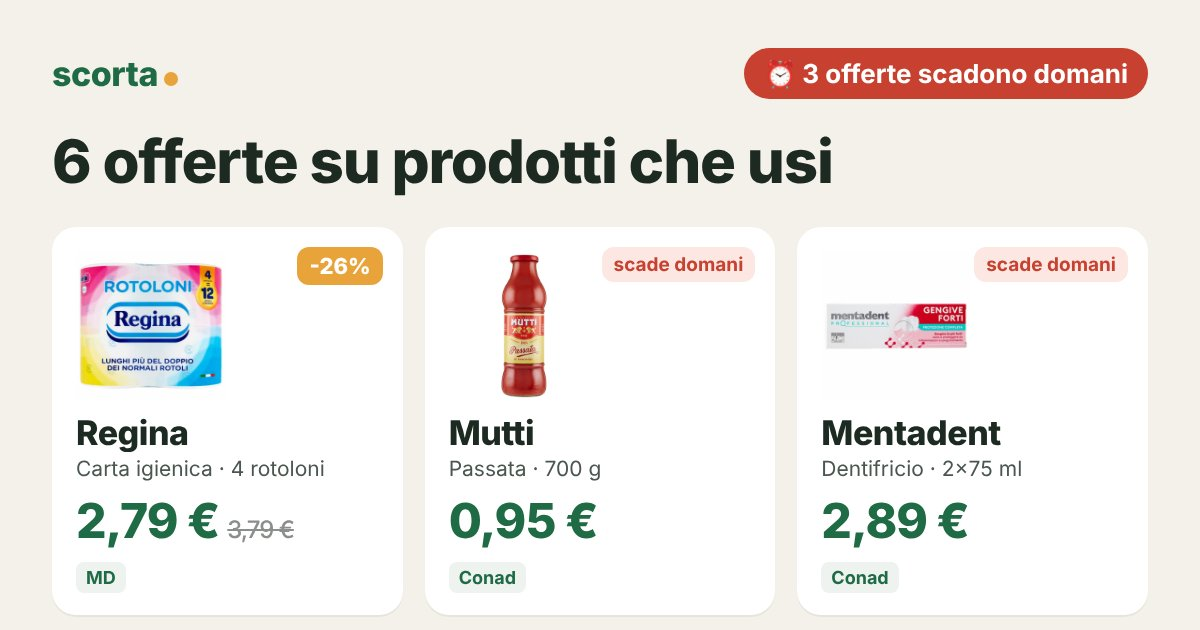
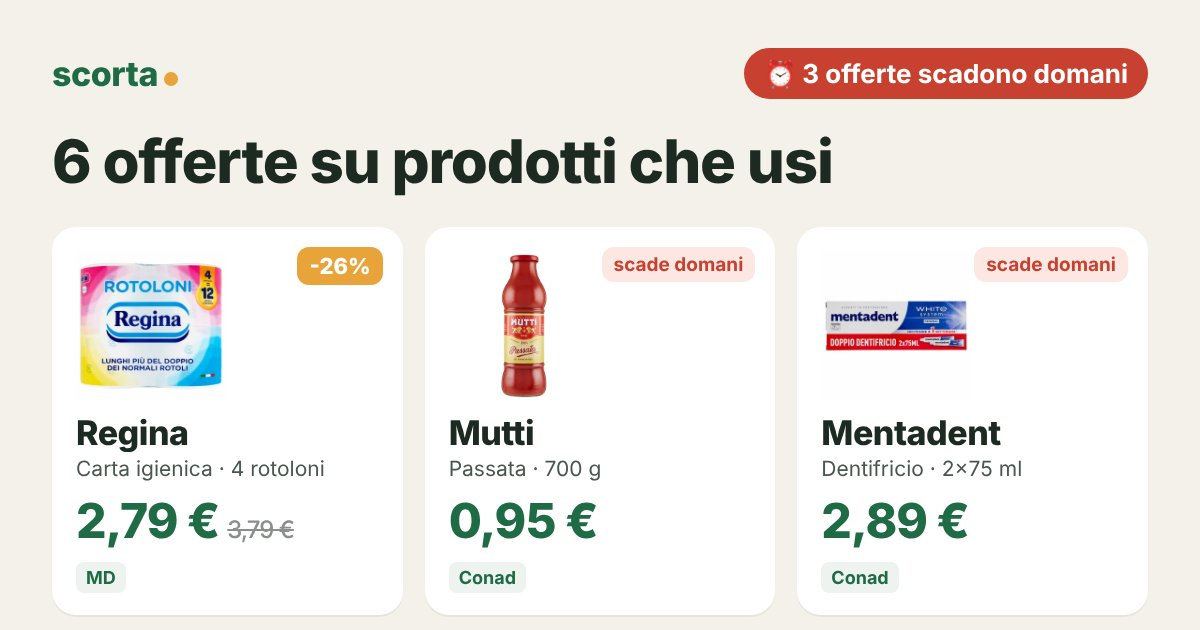
Pagine offerte 2026-10-31
Claude-Session: https://claude.ai/code/session_012BnByD7nnfoHswjF7TKs2L

Changed region(s): [[0.6783, 0.4524, 0.8325, 0.573]]

diff --git a/o/a0ea8a2d/index.html b/o/a0ea8a2d/index.html
@@ -6,4 +6,4 @@
 <style>body{margin:0;font-family:-apple-system,system-ui,sans-serif;background:#F4F1EA;color:#1d2a22}main{max-width:560px;margin:auto;padding:16px}img{width:100%;border-radius:14px}
 ul{list-style:none;padding:0}li{display:flex;gap:10px;align-items:center;background:#fff;border-radius:12px;padding:10px 12px;margin:8px 0}.ic{font-size:26px}.th{width:44px;height:44px;object-fit:contain;background:#fff}li div:nth-child(2){flex:1}small{color:#6b746e}.pr{text-align:right;white-space:nowrap}s{color:#8a8f8b;font-size:13px}
 .btn{display:block;text-align:center;background:#1f6b45;color:#fff;font-weight:700;font-size:18px;padding:16px;border-radius:14px;text-decoration:none;margin:18px 0}.map{display:block;color:#1f6b45;margin:6px 0;text-decoration:none}</style></head>
-<body><main><img src="card.jpg" alt=""><a class="btn" href="https://tally.so/r/OQQV7k?f=F009&amp;a=A054,A055,A056,A057,A058,A059">✅ Segna cosa hai comprato</a><ul><li><img class=th src=../../img/L189.jpg><div><b>Regina 4 rotoloni carta igienica</b><br><small>MD · scade domani</small></div><div class="pr"><s>3,79 €</s> <b>2,79 €</b></div></li><li><img class=th src=../../img/L027.jpg><div><b>Mutti passata di pomodoro 700 g</b><br><small>Conad · scade domani</small></div><div class="pr"><b>0,95 €</b></div></li><li><img class=th src=../../img/L223.jpg><div><b>Mentadent dentifricio White System/P 2x75 ml</b><br><small>Conad · scade domani</small></div><div class="pr"><b>2,89 €</b></div></li><li><img class=th src=../../img/L003.jpg><div><b>De Cecco pasta di semola formati normali 500 g</b><br><small>Decò Supermercato · fino al 2/11</small></div><div class="pr"><b>0,79 €</b></div></li><li><img class=th src=../../img/L141.jpg><div><b>Omino Bianco detersivo liquido lavatrice 44 lavaggi</b><br><small>Decò Supermercato · fino al 2/11</small></div><div class="pr"><b>4,39 €</b></div></li><li><img class=th src=../../img/L365.jpg><div><b>Finish gel Ultimate 3x540 ml</b><br><small>Decò Supermercato · fino al 2/11</small></div><div class="pr"><b>10,49 €</b></div></li></ul><a class="map" href="https://www.google.com/maps/search/?api=1&query=MD%20C.SO%20ITALIA%2055%20Marano%20di%20Napoli">📍 MD · C.SO ITALIA 55, Marano di Napoli</a><a class="map" href="https://www.google.com/maps/search/?api=1&query=Conad%20Via%20Della%20Repubblica%20122%20Calvizzano">📍 Conad · Via Della Repubblica 122, Calvizzano</a><a class="map" href="https://www.google.com/maps/search/?api=1&query=Dec%C3%B2%20Supermercato%20Via%20Ernesto%20Che%20Guevara%2C%2036%20Marano%20di%20Napoli">📍 Decò Supermercato · Via Ernesto Che Guevara, 36, Marano di Napoli</a><p><small>Prezzi e scadenze dai volantini delle insegne. Rispondi STOP su WhatsApp per non ricevere più avvisi.</small></p></main></body></html>
+<body><main><img src="card.jpg" alt=""><a class="btn" href="https://tally.so/r/OQQV7k?f=F009&amp;a=A054,A055,A056,A057,A058,A059">✅ Segna cosa hai comprato</a><ul><li><img class=th src=../../img/L189.jpg><div><b>Regina 4 rotoloni carta igienica</b><br><small>MD · scade domani</small></div><div class="pr"><s>3,79 €</s> <b>2,79 €</b></div></li><li><img class=th src=../../img/L027.jpg><div><b>Mutti passata di pomodoro 700 g</b><br><small>Conad · scade domani</small></div><div class="pr"><b>0,95 €</b></div></li><li><img class=th src=../../img/mentadent_ws_2x75.jpg><div><b>Mentadent dentifricio White System/P 2x75 ml</b><br><small>Conad · scade domani</small></div><div class="pr"><b>2,89 €</b></div></li><li><img class=th src=../../img/L003.jpg><div><b>De Cecco pasta di semola formati normali 500 g</b><br><small>Decò Supermercato · fino al 2/11</small></div><div class="pr"><b>0,79 €</b></div></li><li><span class=ic>🫧</span><div><b>Omino Bianco detersivo liquido lavatrice 44 lavaggi</b><br><small>Decò Supermercato · fino al 2/11</small></div><div class="pr"><b>4,39 €</b></div></li><li><span class=ic>🍽</span><div><b>Finish gel Ultimate 3x540 ml</b><br><small>Decò Supermercato · fino al 2/11</small></div><div class="pr"><b>10,49 €</b></div></li></ul><a class="map" href="https://www.google.com/maps/search/?api=1&query=MD%20C.SO%20ITALIA%2055%20Marano%20di%20Napoli">📍 MD · C.SO ITALIA 55, Marano di Napoli</a><a class="map" href="https://www.google.com/maps/search/?api=1&query=Conad%20Via%20Della%20Repubblica%20122%20Calvizzano">📍 Conad · Via Della Repubblica 122, Calvizzano</a><a class="map" href="https://www.google.com/maps/search/?api=1&query=Dec%C3%B2%20Supermercato%20Via%20Ernesto%20Che%20Guevara%2C%2036%20Marano%20di%20Napoli">📍 Decò Supermercato · Via Ernesto Che Guevara, 36, Marano di Napoli</a><p><small>Prezzi e scadenze dai volantini delle insegne. Rispondi STOP su WhatsApp per non ricevere più avvisi.</small></p></main></body></html>

diff --git a/o/31ed0d9c/index.html b/o/31ed0d9c/index.html
@@ -6,4 +6,4 @@
 <style>body{margin:0;font-family:-apple-system,system-ui,sans-serif;background:#F4F1EA;color:#1d2a22}main{max-width:560px;margin:auto;padding:16px}img{width:100%;border-radius:14px}
 ul{list-style:none;padding:0}li{display:flex;gap:10px;align-items:center;background:#fff;border-radius:12px;padding:10px 12px;margin:8px 0}.ic{font-size:26px}.th{width:44px;height:44px;object-fit:contain;background:#fff}li div:nth-child(2){flex:1}small{color:#6b746e}.pr{text-align:right;white-space:nowrap}s{color:#8a8f8b;font-size:13px}
 .btn{display:block;text-align:center;background:#1f6b45;color:#fff;font-weight:700;font-size:18px;padding:16px;border-radius:14px;text-decoration:none;margin:18px 0}.map{display:block;color:#1f6b45;margin:6px 0;text-decoration:none}</style></head>
-<body><main><img src="card.jpg" alt=""><a class="btn" href="https://tally.so/r/OQQV7k?f=F008&amp;a=A050,A051,A052,A053">✅ Segna cosa hai comprato</a><ul><li><img class=th src=../../img/L189.jpg><div><b>Regina 4 rotoloni carta igienica</b><br><small>MD · scade domani</small></div><div class="pr"><s>3,79 €</s> <b>2,79 €</b></div></li><li><span class=ic>💧</span><div><b>Ferrarelle acqua effervescente naturale 6x1,5 l</b><br><small>Conad · scade domani</small></div><div class="pr"><b>1,80 €</b></div></li><li><span class=ic>🍪</span><div><b>Mulino Bianco biscotti classici Rigoli 400 g</b><br><small>Decò Supermercato · fino al 2/11</small></div><div class="pr"><b>1,59 €</b></div></li><li><img class=th src=../../img/L098.jpg><div><b>Mulino Bianco fette biscottate dorate 630 g</b><br><small>Decò Supermercato · fino al 2/11</small></div><div class="pr"><b>1,79 €</b></div></li></ul><a class="map" href="https://www.google.com/maps/search/?api=1&query=MD%20C.SO%20ITALIA%2055%20Marano%20di%20Napoli">📍 MD · C.SO ITALIA 55, Marano di Napoli</a><a class="map" href="https://www.google.com/maps/search/?api=1&query=Conad%20Via%20Della%20Repubblica%20122%20Calvizzano">📍 Conad · Via Della Repubblica 122, Calvizzano</a><a class="map" href="https://www.google.com/maps/search/?api=1&query=Dec%C3%B2%20Supermercato%20Via%20Ernesto%20Che%20Guevara%2C%2036%20Marano%20di%20Napoli">📍 Decò Supermercato · Via Ernesto Che Guevara, 36, Marano di Napoli</a><p><small>Prezzi e scadenze dai volantini delle insegne. Rispondi STOP su WhatsApp per non ricevere più avvisi.</small></p></main></body></html>
+<body><main><img src="card.jpg" alt=""><a class="btn" href="https://tally.so/r/OQQV7k?f=F008&amp;a=A050,A051,A052,A053">✅ Segna cosa hai comprato</a><ul><li><img class=th src=../../img/L189.jpg><div><b>Regina 4 rotoloni carta igienica</b><br><small>MD · scade domani</small></div><div class="pr"><s>3,79 €</s> <b>2,79 €</b></div></li><li><span class=ic>💧</span><div><b>Ferrarelle acqua effervescente naturale 6x1,5 l</b><br><small>Conad · scade domani</small></div><div class="pr"><b>1,80 €</b></div></li><li><span class=ic>🍪</span><div><b>Mulino Bianco biscotti classici Rigoli 400 g</b><br><small>Decò Supermercato · fino al 2/11</small></div><div class="pr"><b>1,59 €</b></div></li><li><span class=ic>🍞</span><div><b>Mulino Bianco fette biscottate dorate 630 g</b><br><small>Decò Supermercato · fino al 2/11</small></div><div class="pr"><b>1,79 €</b></div></li></ul><a class="map" href="https://www.google.com/maps/search/?api=1&query=MD%20C.SO%20ITALIA%2055%20Marano%20di%20Napoli">📍 MD · C.SO ITALIA 55, Marano di Napoli</a><a class="map" href="https://www.google.com/maps/search/?api=1&query=Conad%20Via%20Della%20Repubblica%20122%20Calvizzano">📍 Conad · Via Della Repubblica 122, Calvizzano</a><a class="map" href="https://www.google.com/maps/search/?api=1&query=Dec%C3%B2%20Supermercato%20Via%20Ernesto%20Che%20Guevara%2C%2036%20Marano%20di%20Napoli">📍 Decò Supermercato · Via Ernesto Che Guevara, 36, Marano di Napoli</a><p><small>Prezzi e scadenze dai volantini delle insegne. Rispondi STOP su WhatsApp per non ricevere più avvisi.</small></p></main></body></html>

diff --git a/o/7c19c5b6/index.html b/o/7c19c5b6/index.html
@@ -6,4 +6,4 @@
 <style>body{margin:0;font-family:-apple-system,system-ui,sans-serif;background:#F4F1EA;color:#1d2a22}main{max-width:560px;margin:auto;padding:16px}img{width:100%;border-radius:14px}
 ul{list-style:none;padding:0}li{display:flex;gap:10px;align-items:center;background:#fff;border-radius:12px;padding:10px 12px;margin:8px 0}.ic{font-size:26px}.th{width:44px;height:44px;object-fit:contain;background:#fff}li div:nth-child(2){flex:1}small{color:#6b746e}.pr{text-align:right;white-space:nowrap}s{color:#8a8f8b;font-size:13px}
 .btn{display:block;text-align:center;background:#1f6b45;color:#fff;font-weight:700;font-size:18px;padding:16px;border-radius:14px;text-decoration:none;margin:18px 0}.map{display:block;color:#1f6b45;margin:6px 0;text-decoration:none}</style></head>
-<body><main><img src="card.jpg" alt=""><a class="btn" href="https://tally.so/r/OQQV7k?f=F003&amp;a=A039,A040,A041,A042">✅ Segna cosa hai comprato</a><ul><li><img class=th src=../../img/L565.jpg><div><b>Ace pavimenti igienizzante lavanda/talco 1 l</b><br><small>Conad · scade domani</small></div><div class="pr"><b>1,49 €</b></div></li><li><img class=th src=../../img/L027.jpg><div><b>Mutti passata di pomodoro 700 g</b><br><small>Conad Superstore · scade domani</small></div><div class="pr"><b>0,95 €</b></div></li><li><img class=th src=../../img/L039.jpg><div><b>Rio mare Tonno all&#x27;Olio di Oliva 4 + 2 Gratis x 80 g</b><br><small>Dodecà · prezzo fisso</small></div><div class="pr"><b>5,99 €</b></div></li><li><img class=th src=../../img/L163.jpg><div><b>Fairy Pastiglie Lavastoviglie Platinum All in One, Detersivo Piatti Limone, 45 Capsule 671 g</b><br><small>Dodecà · prezzo fisso</small></div><div class="pr"><b>11,69 €</b></div></li></ul><a class="map" href="https://www.google.com/maps/search/?api=1&query=Conad%20Corso%20Cirillo%2027%20Grumo%20Nevano">📍 Conad · Corso Cirillo 27, Grumo Nevano</a><a class="map" href="https://www.google.com/maps/search/?api=1&query=Conad%20Superstore%20Via%20Barraccone%20Snc%20Sant%27Arpino">📍 Conad Superstore · Via Barraccone Snc, Sant&#x27;Arpino</a><a class="map" href="https://www.google.com/maps/search/?api=1&query=Dodec%C3%A0%20Via%20Sette%20Re%2C%2077%20Arzano">📍 Dodecà · Via Sette Re, 77, Arzano</a><p><small>Prezzi e scadenze dai volantini delle insegne. Rispondi STOP su WhatsApp per non ricevere più avvisi.</small></p></main></body></html>
+<body><main><img src="card.jpg" alt=""><a class="btn" href="https://tally.so/r/OQQV7k?f=F003&amp;a=A039,A040,A041,A042">✅ Segna cosa hai comprato</a><ul><li><span class=ic>🧽</span><div><b>Ace pavimenti igienizzante lavanda/talco 1 l</b><br><small>Conad · scade domani</small></div><div class="pr"><b>1,49 €</b></div></li><li><img class=th src=../../img/L027.jpg><div><b>Mutti passata di pomodoro 700 g</b><br><small>Conad Superstore · scade domani</small></div><div class="pr"><b>0,95 €</b></div></li><li><span class=ic>🐟</span><div><b>Rio mare Tonno all&#x27;Olio di Oliva 4 + 2 Gratis x 80 g</b><br><small>Dodecà · prezzo fisso</small></div><div class="pr"><b>5,99 €</b></div></li><li><span class=ic>🍽</span><div><b>Fairy Pastiglie Lavastoviglie Platinum All in One, Detersivo Piatti Limone, 45 Capsule 671 g</b><br><small>Dodecà · prezzo fisso</small></div><div class="pr"><b>11,69 €</b></div></li></ul><a class="map" href="https://www.google.com/maps/search/?api=1&query=Conad%20Corso%20Cirillo%2027%20Grumo%20Nevano">📍 Conad · Corso Cirillo 27, Grumo Nevano</a><a class="map" href="https://www.google.com/maps/search/?api=1&query=Conad%20Superstore%20Via%20Barraccone%20Snc%20Sant%27Arpino">📍 Conad Superstore · Via Barraccone Snc, Sant&#x27;Arpino</a><a class="map" href="https://www.google.com/maps/search/?api=1&query=Dodec%C3%A0%20Via%20Sette%20Re%2C%2077%20Arzano">📍 Dodecà · Via Sette Re, 77, Arzano</a><p><small>Prezzi e scadenze dai volantini delle insegne. Rispondi STOP su WhatsApp per non ricevere più avvisi.</small></p></main></body></html>

diff --git a/o/8577fc16/index.html b/o/8577fc16/index.html
@@ -6,4 +6,4 @@
 <style>body{margin:0;font-family:-apple-system,system-ui,sans-serif;background:#F4F1EA;color:#1d2a22}main{max-width:560px;margin:auto;padding:16px}img{width:100%;border-radius:14px}
 ul{list-style:none;padding:0}li{display:flex;gap:10px;align-items:center;background:#fff;border-radius:12px;padding:10px 12px;margin:8px 0}.ic{font-size:26px}.th{width:44px;height:44px;object-fit:contain;background:#fff}li div:nth-child(2){flex:1}small{color:#6b746e}.pr{text-align:right;white-space:nowrap}s{color:#8a8f8b;font-size:13px}
 .btn{display:block;text-align:center;background:#1f6b45;color:#fff;font-weight:700;font-size:18px;padding:16px;border-radius:14px;text-decoration:none;margin:18px 0}.map{display:block;color:#1f6b45;margin:6px 0;text-decoration:none}</style></head>
-<body><main><img src="card.jpg" alt=""><a class="btn" href="https://tally.so/r/OQQV7k?f=F005&amp;a=A046,A047,A048,A049">✅ Segna cosa hai comprato</a><ul><li><img class=th src=../../img/L189.jpg><div><b>Regina 4 rotoloni carta igienica</b><br><small>MD · scade domani</small></div><div class="pr"><s>3,79 €</s> <b>2,79 €</b></div></li><li><img class=th src=../../img/L042.jpg><div><b>Callipo tranci di tonno all&#x27;olio extravergine biologico 2x80 g</b><br><small>Conad Superstore · scade domani</small></div><div class="pr"><s>4,29 €</s> <b>2,99 €</b></div></li><li><img class=th src=../../img/L138.jpg><div><b>Dash detersivo liquido lavatrice classico/colore 40 dosi 1,8 l</b><br><small>Conad Superstore · scade domani</small></div><div class="pr"><b>6,90 €</b></div></li><li><img class=th src=../../img/L223.jpg><div><b>Mentadent dentifricio prevenzione completa/white system 2x75 ml</b><br><small>Conad Superstore · scade domani</small></div><div class="pr"><b>2,89 €</b></div></li></ul><a class="map" href="https://www.google.com/maps/search/?api=1&query=MD%20Via%20Giulio%20Cesare%2C%2050%2C%20Fuorigrotta%20Napoli">📍 MD · Via Giulio Cesare, 50, Fuorigrotta, Napoli</a><a class="map" href="https://www.google.com/maps/search/?api=1&query=Conad%20Superstore%20Via%20Cintia-%20Angolo%20Via%20Marcaurelio%20Snc%20Napoli">📍 Conad Superstore · Via Cintia- Angolo Via Marcaurelio Snc, Napoli</a><p><small>Prezzi e scadenze dai volantini delle insegne. Rispondi STOP su WhatsApp per non ricevere più avvisi.</small></p></main></body></html>
+<body><main><img src="card.jpg" alt=""><a class="btn" href="https://tally.so/r/OQQV7k?f=F005&amp;a=A046,A047,A048,A049">✅ Segna cosa hai comprato</a><ul><li><img class=th src=../../img/L189.jpg><div><b>Regina 4 rotoloni carta igienica</b><br><small>MD · scade domani</small></div><div class="pr"><s>3,79 €</s> <b>2,79 €</b></div></li><li><span class=ic>🐟</span><div><b>Callipo tranci di tonno all&#x27;olio extravergine biologico 2x80 g</b><br><small>Conad Superstore · scade domani</small></div><div class="pr"><s>4,29 €</s> <b>2,99 €</b></div></li><li><span class=ic>🫧</span><div><b>Dash detersivo liquido lavatrice classico/colore 40 dosi 1,8 l</b><br><small>Conad Superstore · scade domani</small></div><div class="pr"><b>6,90 €</b></div></li><li><span class=ic>🪥</span><div><b>Mentadent dentifricio prevenzione completa/white system 2x75 ml</b><br><small>Conad Superstore · scade domani</small></div><div class="pr"><b>2,89 €</b></div></li></ul><a class="map" href="https://www.google.com/maps/search/?api=1&query=MD%20Via%20Giulio%20Cesare%2C%2050%2C%20Fuorigrotta%20Napoli">📍 MD · Via Giulio Cesare, 50, Fuorigrotta, Napoli</a><a class="map" href="https://www.google.com/maps/search/?api=1&query=Conad%20Superstore%20Via%20Cintia-%20Angolo%20Via%20Marcaurelio%20Snc%20Napoli">📍 Conad Superstore · Via Cintia- Angolo Via Marcaurelio Snc, Napoli</a><p><small>Prezzi e scadenze dai volantini delle insegne. Rispondi STOP su WhatsApp per non ricevere più avvisi.</small></p></main></body></html>

diff --git a/o/79c985cf/index.html b/o/79c985cf/index.html
@@ -6,4 +6,4 @@
 <style>body{margin:0;font-family:-apple-system,system-ui,sans-serif;background:#F4F1EA;color:#1d2a22}main{max-width:560px;margin:auto;padding:16px}img{width:100%;border-radius:14px}
 ul{list-style:none;padding:0}li{display:flex;gap:10px;align-items:center;background:#fff;border-radius:12px;padding:10px 12px;margin:8px 0}.ic{font-size:26px}.th{width:44px;height:44px;object-fit:contain;background:#fff}li div:nth-child(2){flex:1}small{color:#6b746e}.pr{text-align:right;white-space:nowrap}s{color:#8a8f8b;font-size:13px}
 .btn{display:block;text-align:center;background:#1f6b45;color:#fff;font-weight:700;font-size:18px;padding:16px;border-radius:14px;text-decoration:none;margin:18px 0}.map{display:block;color:#1f6b45;margin:6px 0;text-decoration:none}</style></head>
-<body><main><img src="card.jpg" alt=""><a class="btn" href="https://tally.so/r/OQQV7k?f=F004&amp;a=A043,A044,A045">✅ Segna cosa hai comprato</a><ul><li><img class=th src=../../img/L153.jpg><div><b>Lenor ammorbidente assortito 1806 ml, 87 lavaggi</b><br><small>MD · scade domani</small></div><div class="pr"><s>5,99 €</s> <b>4,89 €</b></div></li><li><img class=th src=../../img/L066.jpg><div><b>Panna acqua naturale 6x50 cl</b><br><small>Conad City · fino al 4/11</small></div><div class="pr"><b>2,29 €</b></div></li><li><img class=th src=../../img/L161.jpg><div><b>Finish Quantum Limone pastiglie lavastoviglie 27 lavaggi 280,8 g</b><br><small>Dodecà · prezzo fisso</small></div><div class="pr"><b>6,49 €</b></div></li></ul><a class="map" href="https://www.google.com/maps/search/?api=1&query=MD%20C.SO%20ITALIA%2055%20Marano%20di%20Napoli">📍 MD · C.SO ITALIA 55, Marano di Napoli</a><a class="map" href="https://www.google.com/maps/search/?api=1&query=Conad%20City%20Corso%20Umberto%20I%2057%20Marano%20di%20Napoli">📍 Conad City · Corso Umberto I 57, Marano di Napoli</a><a class="map" href="https://www.google.com/maps/search/?api=1&query=Dodec%C3%A0%20Via%20Giuseppe%20di%20Vittorio%20SNC%20Mugnano%20di%20Napoli">📍 Dodecà · Via Giuseppe di Vittorio SNC, Mugnano di Napoli</a><p><small>Prezzi e scadenze dai volantini delle insegne. Rispondi STOP su WhatsApp per non ricevere più avvisi.</small></p></main></body></html>
+<body><main><img src="card.jpg" alt=""><a class="btn" href="https://tally.so/r/OQQV7k?f=F004&amp;a=A043,A044,A045">✅ Segna cosa hai comprato</a><ul><li><span class=ic>🫧</span><div><b>Lenor ammorbidente assortito 1806 ml, 87 lavaggi</b><br><small>MD · scade domani</small></div><div class="pr"><s>5,99 €</s> <b>4,89 €</b></div></li><li><span class=ic>💧</span><div><b>Panna acqua naturale 6x50 cl</b><br><small>Conad City · fino al 4/11</small></div><div class="pr"><b>2,29 €</b></div></li><li><span class=ic>🍽</span><div><b>Finish Quantum Limone pastiglie lavastoviglie 27 lavaggi 280,8 g</b><br><small>Dodecà · prezzo fisso</small></div><div class="pr"><b>6,49 €</b></div></li></ul><a class="map" href="https://www.google.com/maps/search/?api=1&query=MD%20C.SO%20ITALIA%2055%20Marano%20di%20Napoli">📍 MD · C.SO ITALIA 55, Marano di Napoli</a><a class="map" href="https://www.google.com/maps/search/?api=1&query=Conad%20City%20Corso%20Umberto%20I%2057%20Marano%20di%20Napoli">📍 Conad City · Corso Umberto I 57, Marano di Napoli</a><a class="map" href="https://www.google.com/maps/search/?api=1&query=Dodec%C3%A0%20Via%20Giuseppe%20di%20Vittorio%20SNC%20Mugnano%20di%20Napoli">📍 Dodecà · Via Giuseppe di Vittorio SNC, Mugnano di Napoli</a><p><small>Prezzi e scadenze dai volantini delle insegne. Rispondi STOP su WhatsApp per non ricevere più avvisi.</small></p></main></body></html>

diff --git a/o/5cffcb88/index.html b/o/5cffcb88/index.html
@@ -6,4 +6,4 @@
 <style>body{margin:0;font-family:-apple-system,system-ui,sans-serif;background:#F4F1EA;color:#1d2a22}main{max-width:560px;margin:auto;padding:16px}img{width:100%;border-radius:14px}
 ul{list-style:none;padding:0}li{display:flex;gap:10px;align-items:center;background:#fff;border-radius:12px;padding:10px 12px;margin:8px 0}.ic{font-size:26px}.th{width:44px;height:44px;object-fit:contain;background:#fff}li div:nth-child(2){flex:1}small{color:#6b746e}.pr{text-align:right;white-space:nowrap}s{color:#8a8f8b;font-size:13px}
 .btn{display:block;text-align:center;background:#1f6b45;color:#fff;font-weight:700;font-size:18px;padding:16px;border-radius:14px;text-decoration:none;margin:18px 0}.map{display:block;color:#1f6b45;margin:6px 0;text-decoration:none}</style></head>
-<body><main><img src="card.jpg" alt=""><a class="btn" href="https://tally.so/r/OQQV7k?f=F002&amp;a=A036,A037,A038">✅ Segna cosa hai comprato</a><ul><li><img class=th src=../../img/L039.jpg><div><b>Rio Mare tonno all&#x27;olio di oliva Filo d&#x27;Olio 4x65 g</b><br><small>Conad City · scade domani</small></div><div class="pr"><b>4,95 €</b></div></li><li><img class=th src=../../img/L188.jpg><div><b>Scottex Scottonelle carta igienica 12 rotoli</b><br><small>Eté · fino al 2/11</small></div><div class="pr"><b>3,69 €</b></div></li><li><img class=th src=../../img/L880.jpg><div><b>Amuchina pavimenti varie profumazioni 1,25 l</b><br><small>Eté · fino al 2/11</small></div><div class="pr"><b>1,89 €</b></div></li></ul><a class="map" href="https://www.google.com/maps/search/?api=1&query=Conad%20City%20Via%20Publio%20Virgilio%20Marone%208/10%20Poggiomarino">📍 Conad City · Via Publio Virgilio Marone 8/10, Poggiomarino</a><a class="map" href="https://www.google.com/maps/search/?api=1&query=Et%C3%A9%20Via%20G.%20Iervolino%2C%2080%20Poggiomarino">📍 Eté · Via G. Iervolino, 80, Poggiomarino</a><p><small>Prezzi e scadenze dai volantini delle insegne. Rispondi STOP su WhatsApp per non ricevere più avvisi.</small></p></main></body></html>
+<body><main><img src="card.jpg" alt=""><a class="btn" href="https://tally.so/r/OQQV7k?f=F002&amp;a=A036,A037,A038">✅ Segna cosa hai comprato</a><ul><li><span class=ic>🐟</span><div><b>Rio Mare tonno all&#x27;olio di oliva Filo d&#x27;Olio 4x65 g</b><br><small>Conad City · scade domani</small></div><div class="pr"><b>4,95 €</b></div></li><li><span class=ic>🧻</span><div><b>Scottex Scottonelle carta igienica 12 rotoli</b><br><small>Eté · fino al 2/11</small></div><div class="pr"><b>3,69 €</b></div></li><li><span class=ic>🧽</span><div><b>Amuchina pavimenti varie profumazioni 1,25 l</b><br><small>Eté · fino al 2/11</small></div><div class="pr"><b>1,89 €</b></div></li></ul><a class="map" href="https://www.google.com/maps/search/?api=1&query=Conad%20City%20Via%20Publio%20Virgilio%20Marone%208/10%20Poggiomarino">📍 Conad City · Via Publio Virgilio Marone 8/10, Poggiomarino</a><a class="map" href="https://www.google.com/maps/search/?api=1&query=Et%C3%A9%20Via%20G.%20Iervolino%2C%2080%20Poggiomarino">📍 Eté · Via G. Iervolino, 80, Poggiomarino</a><p><small>Prezzi e scadenze dai volantini delle insegne. Rispondi STOP su WhatsApp per non ricevere più avvisi.</small></p></main></body></html>
